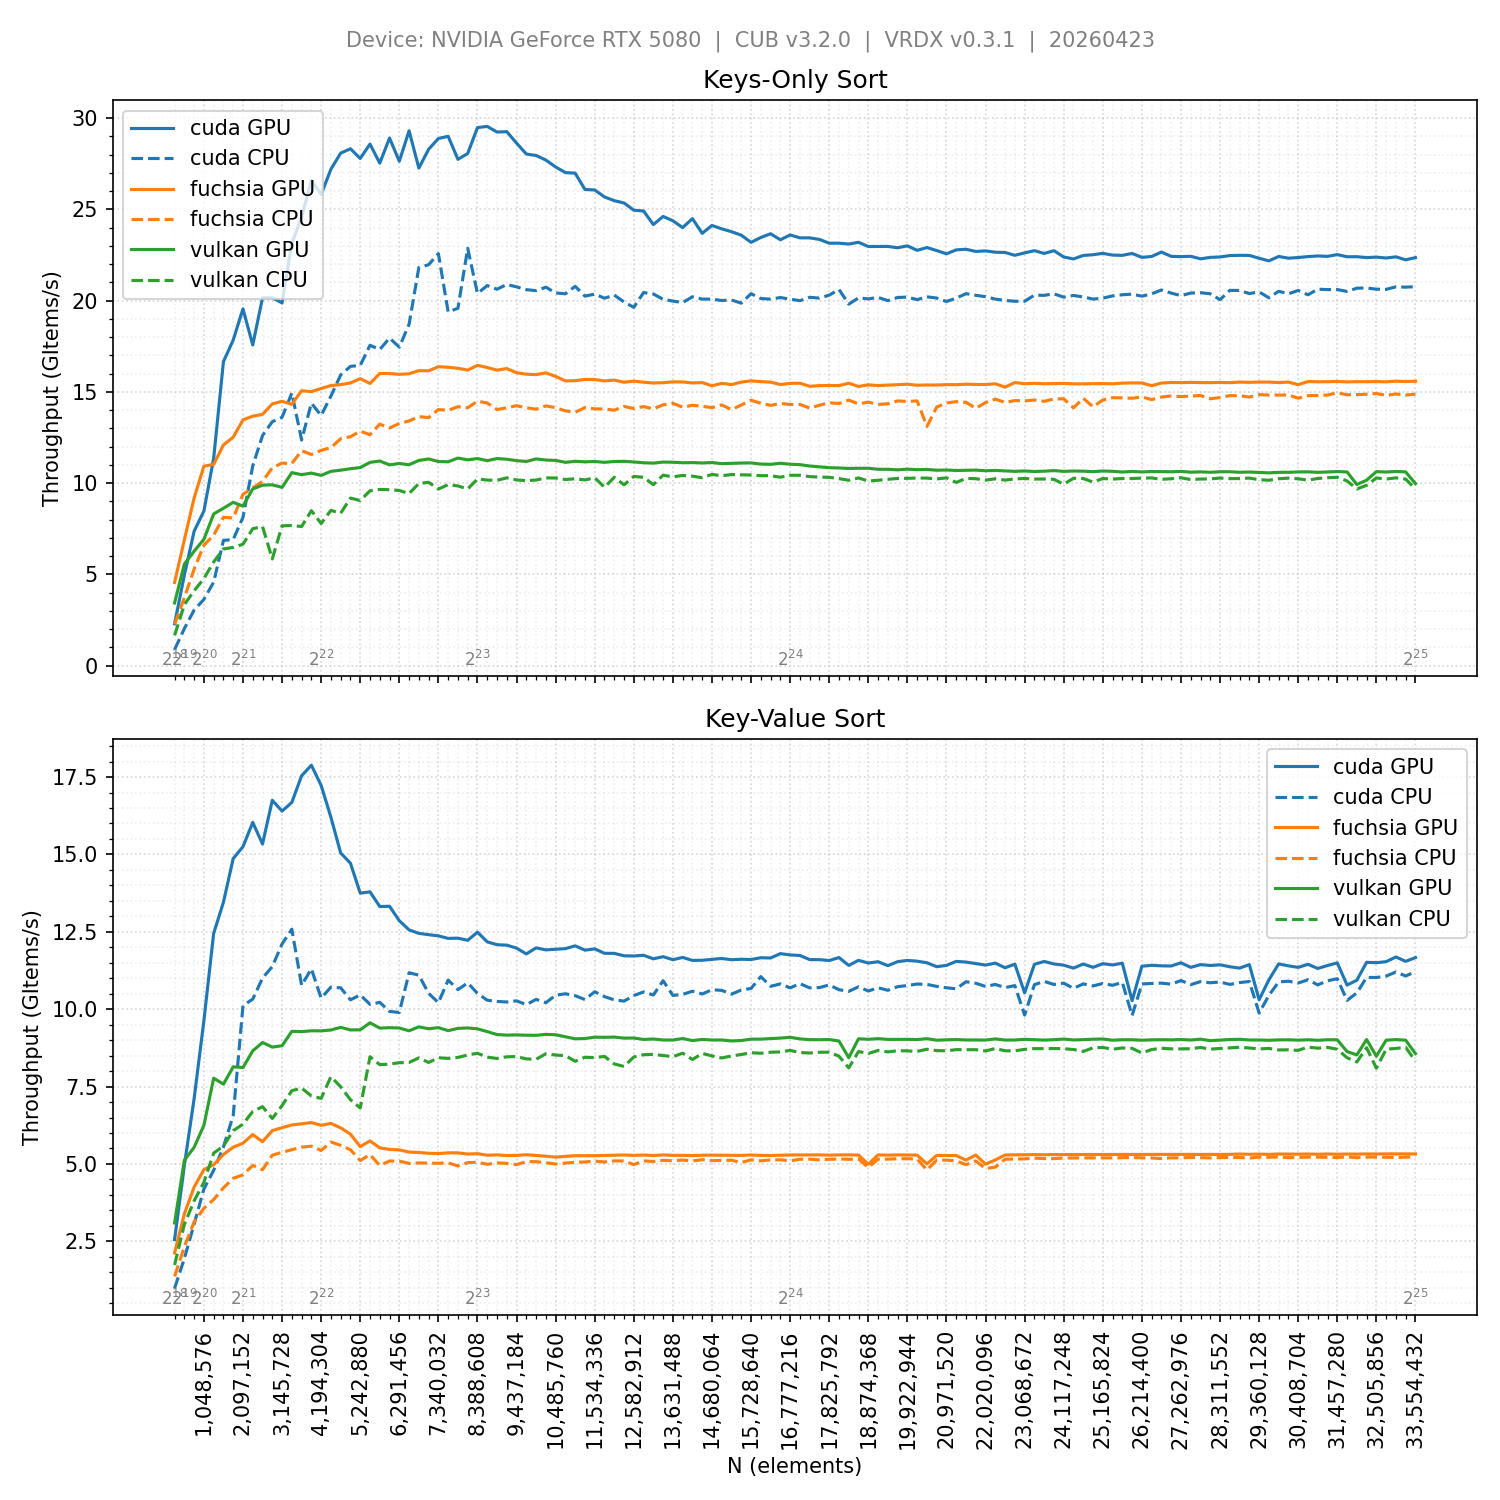
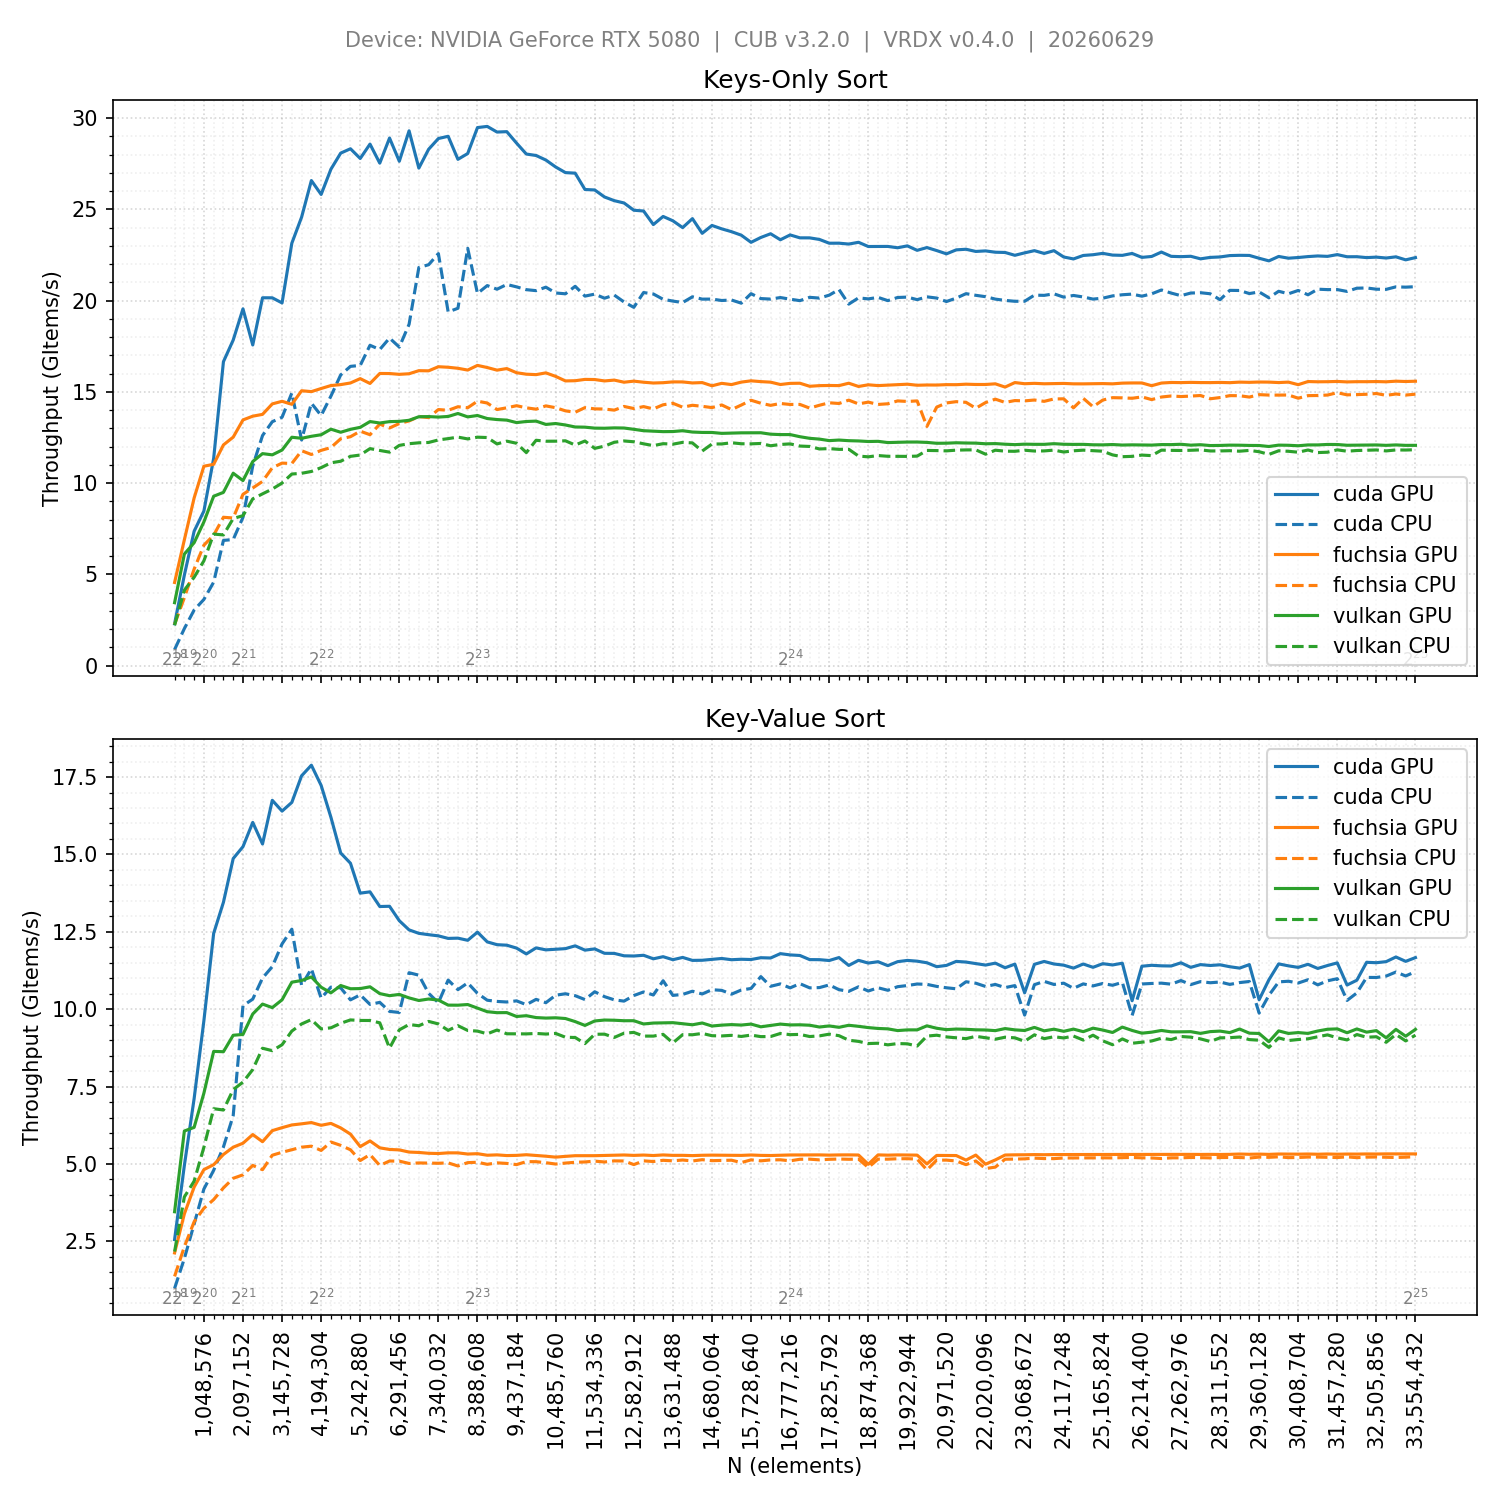
docs: update benchmark numbers from new vulkan.csv
Vulkan throughput at N=2^25 improved: keys 10.66→12.07 GItems/s,
kv 9.04→9.35 GItems/s. Updated ratios and plot accordingly.

diff --git a/README.md b/README.md
@@ -2,7 +2,7 @@
 
 Reduce-then-scan GPU radix sort, implemented as a single-file header-only Vulkan library. No additional dependencies.
 
-> **Note:** As of April 2026 (CUDA 13.2, CUB v3.2.0 Onesweep), CUB is faster by 2.1× on keys-only and 1.3× on key-value at N = 2^25. Still a practical choice for Vulkan-based workflows.
+> **Note:** As of June 2026 (CUDA 13.2, CUB v3.2.0 Onesweep), CUB is faster by 1.85× on keys-only and 1.25× on key-value at N = 2^25. Still a practical choice for Vulkan-based workflows.
 
 
 ## Requirements
@@ -54,10 +54,10 @@ Median throughput at N = 2^25. Ratios relative to this library (> 1× means the 
 
 | Sort type | This library (Vulkan) | Fuchsia (Vulkan) | CUB Onesweep (CUDA) |
 |---|---|---|---|
-| 32-bit keys only | 10.66 GItems/s | 13.58 GItems/s (1.27×) | 22.40 GItems/s (2.10×) |
-| 32-bit key-value | 9.04 GItems/s | 5.02 GItems/s (0.56×) | 11.68 GItems/s (1.29×) |
+| 32-bit keys only | 12.07 GItems/s | 15.59 GItems/s (1.29×) | 22.36 GItems/s (1.85×) |
+| 32-bit key-value | 9.35 GItems/s | 5.32 GItems/s (0.57×) | 11.67 GItems/s (1.25×) |
 
-[Fuchsia radix sort](https://github.com/juliusikkala/fuchsia_radix_sort) is faster on keys-only, but 1.80× slower on key-value. Fuchsia sorts key-value pairs as a single 64-bit key, doubling memory traffic per pass, while this library sorts the two buffers independently.
+[Fuchsia radix sort](https://github.com/juliusikkala/fuchsia_radix_sort) is faster on keys-only, but 1.76× slower on key-value. Fuchsia sorts key-value pairs as a single 64-bit key, doubling memory traffic per pass, while this library sorts the two buffers independently.
 
 ![Benchmark Result](media/results.png)
 